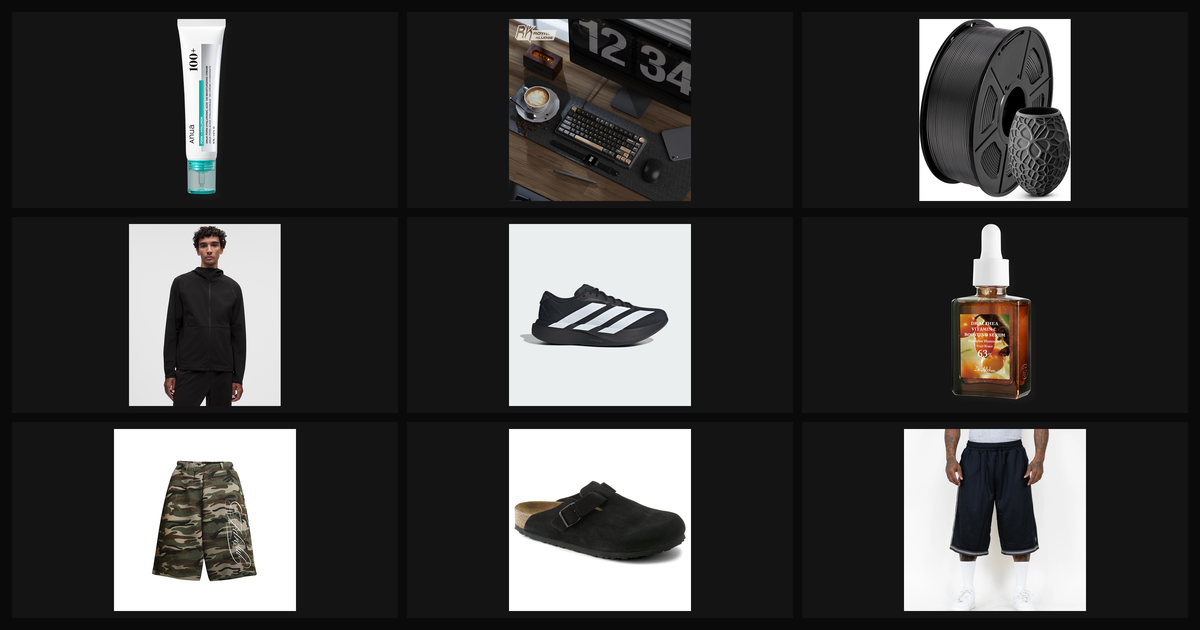
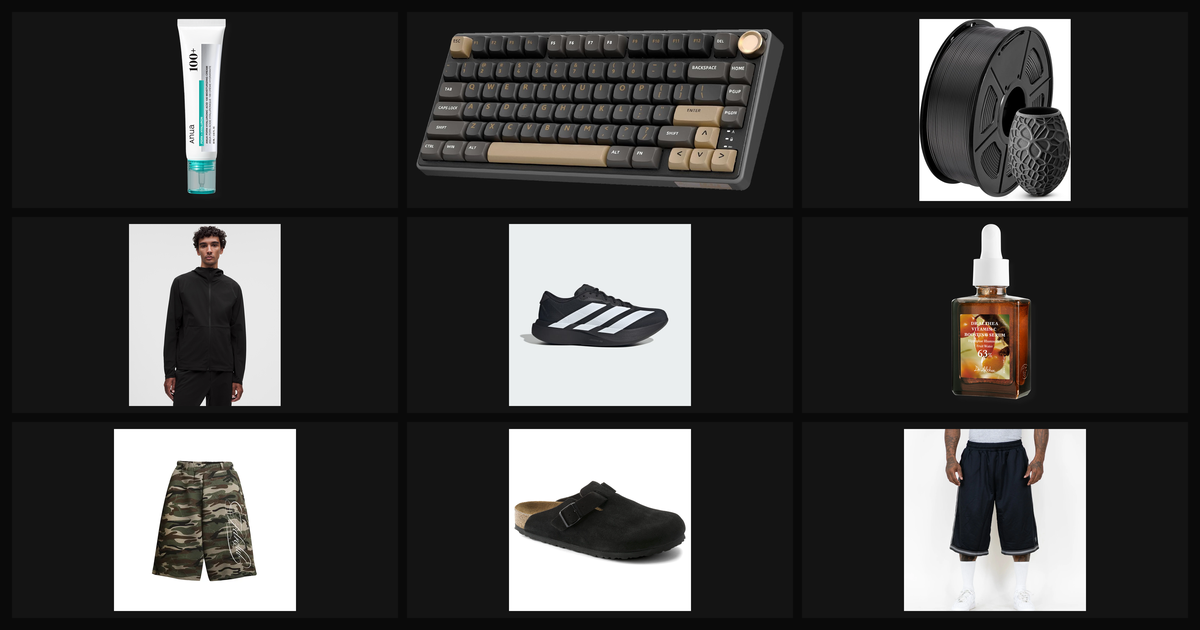
Use requested R75 photo with transparent background

Changed region(s): [[0.3392, 0.0302, 0.6783, 0.3317]]

diff --git a/birthday/index.html b/birthday/index.html
@@ -5,8 +5,8 @@
  <meta name="description" content="My birthday wishlist: gift ideas, pictures, sizes and shopping links. Pickup preferred around 77204 or 77406.">
  <meta name="theme-color" content="#0a0a0a"><meta property="og:type" content="website">
  <meta property="og:title" content="Birthday list — Oluwaseun Omodele"><meta property="og:description" content="Gift ideas, pictures, sizes and shopping links."><meta property="og:url" content="https://oluwaseuno.com/birthday/">
- <meta property="og:image" content="https://oluwaseuno.com/birthday/images/birthday-social-preview.png?v=25e1a66a9f0c"><meta property="og:image:secure_url" content="https://oluwaseuno.com/birthday/images/birthday-social-preview.png?v=25e1a66a9f0c"><meta property="og:image:type" content="image/png"><meta property="og:image:width" content="1200"><meta property="og:image:height" content="630"><meta property="og:image:alt" content="The first nine birthday wishlist items in a 3 by 3 photo grid.">
- <meta name="twitter:card" content="summary_large_image"><meta name="twitter:image" content="https://oluwaseuno.com/birthday/images/birthday-social-preview.png?v=25e1a66a9f0c"><meta name="twitter:image:alt" content="The first nine birthday wishlist items in a 3 by 3 photo grid.">
+ <meta property="og:image" content="https://oluwaseuno.com/birthday/images/birthday-social-preview.png?v=abb3ee5538ff"><meta property="og:image:secure_url" content="https://oluwaseuno.com/birthday/images/birthday-social-preview.png?v=abb3ee5538ff"><meta property="og:image:type" content="image/png"><meta property="og:image:width" content="1200"><meta property="og:image:height" content="630"><meta property="og:image:alt" content="The first nine birthday wishlist items in a 3 by 3 photo grid.">
+ <meta name="twitter:card" content="summary_large_image"><meta name="twitter:image" content="https://oluwaseuno.com/birthday/images/birthday-social-preview.png?v=abb3ee5538ff"><meta name="twitter:image:alt" content="The first nine birthday wishlist items in a 3 by 3 photo grid.">
  <link rel="canonical" href="https://oluwaseuno.com/birthday/"><link rel="icon" type="image/svg+xml" href="/assets/favicon.svg">
  <link rel="preconnect" href="https://fonts.googleapis.com"><link rel="preconnect" href="https://fonts.gstatic.com" crossorigin>
  <link href="https://fonts.googleapis.com/css2?family=DM+Sans:wght@400;500;600;700&family=Space+Mono:wght@400;700&display=swap" rel="stylesheet">
@@ -53,7 +53,7 @@
  <figure class="gift-image is-cutout"><a href="https://www.amazon.com/dp/B07XG3RM58" target="_blank" rel="noopener noreferrer" aria-label="View Black PLA filament · 5 spools photo source"><img src="/birthday/images/black-pla-filament.jpg" width="440" height="440" alt="Black PLA filament · 5 spools — Black PLA · 1 kg spool pictured" loading="lazy" decoding="async"></a><figcaption>Black PLA · 1 kg spool pictured</figcaption></figure>
  <div class="gift-info"><p class="gift-brand">SUNLU</p><h2 class="gift-title" id="black-pla-filament-title">Black PLA filament · 5 spools</h2><div class="gift-spec"><span>Quantity: 5</span><span>Black</span><span>1.75 mm</span><span>1 kg per spool</span></div><p class="gift-price is-unverified"><a href="https://www.amazon.com/dp/B07XG3RM58" target="_blank" rel="noopener noreferrer" aria-label="Check current price — Amazon · current offer unverified">Check current price</a><small>Amazon · current offer unverified</small></p><p class="gift-reference-price"><a href="https://www.amazon.com/dp/B07XG3RM58" target="_blank" rel="noopener noreferrer">Amazon offer · November 2 · $12.59 per 1 kg spool: $62.95 for 5</a></p><p class="gift-note">Five separate black 1 kg spools of 1.75 mm PLA (5 kg total). On Amazon, choose Black / 1 kg and set quantity to 5. Current price and availability could not be confirmed on November 3. The saved November 2 offer was $12.59 per spool, $62.95 for five before tax. The November 2 Amazon typical-price comparison was $13.99 each / $69.95 for five.</p><div class="gift-links"><a class="gift-link primary" href="https://www.amazon.com/dp/B07XG3RM58" target="_blank" rel="noopener noreferrer">Shop · Amazon <span aria-hidden="true">↗</span></a></div><div data-birthday-claim data-item-id="black-pla-filament"></div></div></article>
 <article class="gift-row" id="rk-r75-keyboard" aria-labelledby="rk-r75-keyboard-title">
- <figure class="gift-image is-landscape"><a href="https://www.amazon.com/dp/B0CWGR5KM9" target="_blank" rel="noopener noreferrer" aria-label="View R75 mechanical keyboard photo source"><img src="/birthday/images/rk-r75-keyboard.jpg" width="440" height="440" alt="R75 mechanical keyboard — R75 · Black" loading="lazy" decoding="async"></a><figcaption>R75 · Black</figcaption></figure>
+ <figure class="gift-image is-landscape"><a href="https://www.amazon.com/dp/B0CWGR5KM9" target="_blank" rel="noopener noreferrer" aria-label="View R75 mechanical keyboard photo source"><img src="/birthday/images/rk-r75-keyboard-cutout.png" width="440" height="440" alt="R75 mechanical keyboard — R75 · Black" loading="lazy" decoding="async"></a><figcaption>R75 · Black</figcaption></figure>
  <div class="gift-info"><p class="gift-brand">RK Royal Kludge</p><h2 class="gift-title" id="rk-r75-keyboard-title">R75 mechanical keyboard</h2><div class="gift-spec"><span>Black</span><span>75% layout</span><span>Wired USB-C</span><span>Silver switches</span></div><p class="gift-price"><a href="https://www.amazon.com/dp/B0CWGR5KM9" target="_blank" rel="noopener noreferrer" aria-label="$59.99 — Amazon · sold by CX Electronic">$59.99</a><small>Amazon · sold by CX Electronic</small></p><p class="gift-reference-price"><a href="https://www.amazon.com/dp/B0CWGR5KM9" target="_blank" rel="noopener noreferrer">Amazon list price · last verified November 2, 2026: $59.99</a></p><p class="gift-note">The exact Black R75 with Silver switches from my Amazon link. The public Amazon listing showed In Stock at $59.99 on November 3; fulfilled by Amazon. Confirm delivery to 77406 before buying.</p><div class="gift-links"><a class="gift-link primary" href="https://www.amazon.com/dp/B0CWGR5KM9" target="_blank" rel="noopener noreferrer">Shop · Amazon <span aria-hidden="true">↗</span></a></div><div data-birthday-claim data-item-id="rk-r75-keyboard"></div></div></article>
 <article class="gift-row" id="anua-cleanser" aria-labelledby="anua-cleanser-title">
  <figure class="gift-image is-cutout"><a href="https://www.ulta.com/p/heartleaf-quercetinol-pore-deep-cleansing-foam-pimprod2048920?sku=2634189" target="_blank" rel="noopener noreferrer" aria-label="View Heartleaf Quercetinol Pore Deep Cleansing Foam photo source"><img src="/birthday/images/anua-heartleaf-cleanser.png" width="440" height="440" alt="Heartleaf Quercetinol Pore Deep Cleansing Foam — Full-size cleansing foam" loading="lazy" decoding="async"></a><figcaption>Full-size cleansing foam</figcaption></figure>
